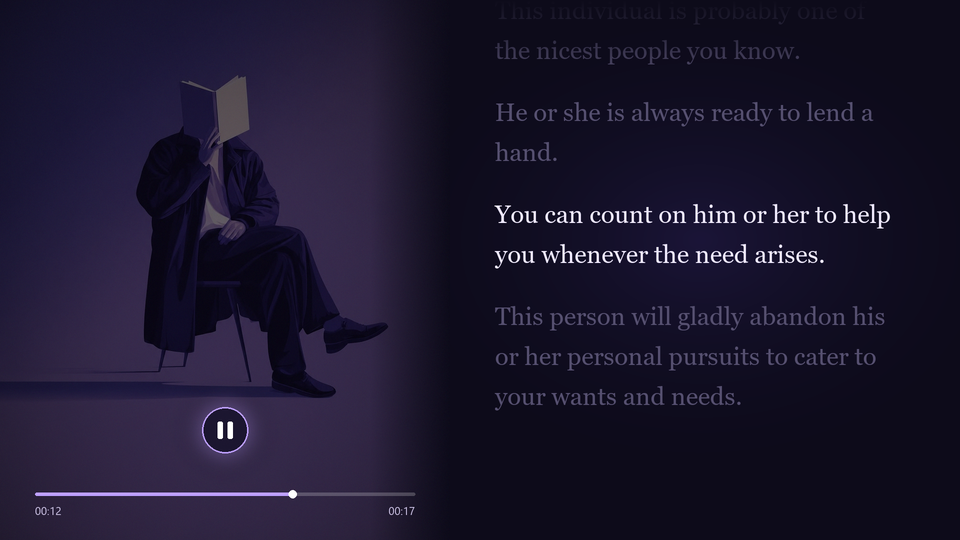
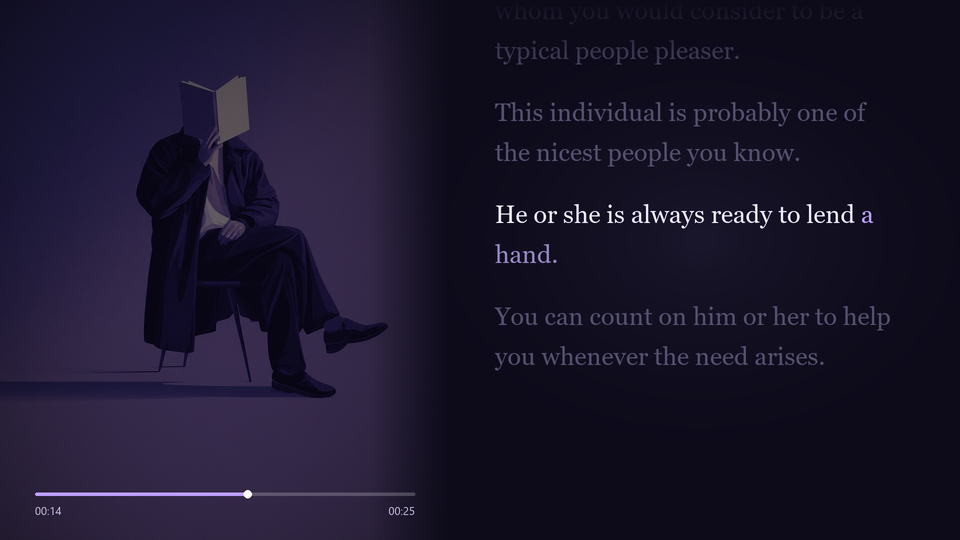
Video: remove play/pause button from Split Reader style, refresh preview

diff --git a/video/styles/split_reader.py b/video/styles/split_reader.py
@@ -1,8 +1,9 @@
 """Style "Split Reader": darkened illustration on the left, sentence-by-sentence text on the right."""
+import colorsys
 import os
 
 import numpy as np
-from PIL import Image, ImageDraw, ImageFilter, ImageFont
+from PIL import Image, ImageDraw, ImageFont
 
 from ..core import ASSETS, H, W, Style, register
 
@@ -10,16 +11,36 @@ F = r"C:\Windows\Fonts"
 SERIF, SANS = F + r"\georgia.ttf", F + r"\segoeui.ttf"
 
 PANEL_W = 900                                   # left illustration panel
-# Theme palettes. hue = target hue of the artwork in degrees (the bundled art is purple, ~255).
-# bg = panel background, accent = word being spoken / progress, spoken/upcoming = current sentence, dim = other sentences.
-THEMES = {
-    "purple": dict(label="Purple", hue=255, bg=(13, 11, 26), accent=(190, 160, 255), spoken=(240, 234, 255), upcoming=(150, 136, 196), dim=(86, 80, 112)),
-    "blue":   dict(label="Blue",   hue=215, bg=(10, 16, 30), accent=(140, 190, 255), spoken=(232, 241, 255), upcoming=(124, 152, 200), dim=(72, 88, 116)),
-    "teal":   dict(label="Teal",   hue=175, bg=(8, 22, 24),  accent=(110, 226, 210), spoken=(228, 252, 248), upcoming=(112, 176, 170), dim=(66, 100, 100)),
-    "green":  dict(label="Green",  hue=135, bg=(10, 22, 14), accent=(150, 230, 150), spoken=(236, 252, 236), upcoming=(128, 176, 128), dim=(72, 100, 76)),
-    "amber":  dict(label="Amber",  hue=35,  bg=(28, 19, 9),  accent=(255, 196, 110), spoken=(255, 244, 228), upcoming=(200, 162, 118), dim=(112, 92, 70)),
-    "rose":   dict(label="Rose",   hue=335, bg=(28, 11, 20), accent=(255, 150, 190), spoken=(255, 236, 244), upcoming=(200, 128, 156), dim=(112, 76, 92)),
-}
+# Theme palettes: one per Tailwind color (accent = its 300 shade). Everything else is derived from the accent:
+# bg = panel background, spoken/upcoming = current sentence, dim = other sentences, hue/sat = recoloring of the artwork.
+# The bundled art is purple (hue ~255). "sat" scales the art's saturation (neutral colors are nearly gray).
+_TAILWIND = [   # id, label, accent RGB, art saturation
+    ("red", "Red", (252, 165, 165), 1), ("orange", "Orange", (253, 186, 116), 1), ("amber", "Amber", (252, 211, 77), 1),
+    ("yellow", "Yellow", (253, 224, 71), 1), ("lime", "Lime", (190, 242, 100), 1), ("green", "Green", (134, 239, 172), 1),
+    ("emerald", "Emerald", (110, 231, 183), 1), ("teal", "Teal", (94, 234, 212), 1), ("cyan", "Cyan", (103, 232, 249), 1),
+    ("sky", "Sky", (125, 211, 252), 1), ("blue", "Blue", (147, 197, 253), 1), ("indigo", "Indigo", (165, 180, 252), 1),
+    ("violet", "Violet", (196, 181, 253), 1), ("purple", "Purple", (216, 180, 254), 1),
+    ("fuchsia", "Fuchsia", (240, 171, 252), 1), ("pink", "Pink", (249, 168, 212), 1), ("rose", "Rose", (253, 164, 175), 1),
+    ("slate", "Slate", (203, 213, 225), 0.30), ("gray", "Gray", (209, 213, 219), 0.18), ("zinc", "Zinc", (212, 212, 216), 0.12),
+    ("neutral", "Neutral", (212, 212, 212), 0.0), ("stone", "Stone", (214, 211, 209), 0.14),
+]
+
+
+def _rgb(h, l, s):
+    return tuple(round(c * 255) for c in colorsys.hls_to_rgb(h, l, s))
+
+
+def _make_theme(label, accent, sat):
+    h, _, s = colorsys.rgb_to_hls(*(c / 255 for c in accent))
+    return dict(label=label, hue=h * 360, sat=sat, accent=accent,
+                bg=_rgb(h, 0.075, min(s, 0.5)), spoken=_rgb(h, 0.95, min(s, 1) * 0.9),
+                upcoming=_rgb(h, 0.62, min(s, 1) * 0.30), dim=_rgb(h, 0.36, min(s, 1) * 0.16))
+
+
+THEMES = {i: _make_theme(lb, ac, st) for i, lb, ac, st in _TAILWIND}
+# The original hand-tuned purple stays the default look (the artwork's own hue, so it is never recolored).
+THEMES["purple"] = dict(label="Purple", hue=255, sat=1, bg=(13, 11, 26), accent=(190, 160, 255), spoken=(240, 234, 255),
+                        upcoming=(150, 136, 196), dim=(86, 80, 112))
 DEFAULT_THEME = "purple"
 TX0, TX1 = PANEL_W + 90, W - 110
 FONT_SIZE, LINE_H, PARA_GAP = 50, 80, 44
@@ -61,11 +82,13 @@ class SplitReader(Style):
     # ---- static background
     def _build_base(self, image_path):
         im = Image.open(image_path).convert("RGB")
-        if image_path == DEFAULT_IMAGE and self.t["hue"] != THEMES[DEFAULT_THEME]["hue"]:
-            # recolor the bundled purple art to the theme (rotate the hue; uploaded images are left as they are)
+        if image_path == DEFAULT_IMAGE and self.t is not THEMES[DEFAULT_THEME]:
+            # recolor the bundled purple art to the theme: rotate the hue, scale the saturation
+            # (uploaded images are left as they are)
             shift = round((self.t["hue"] - THEMES[DEFAULT_THEME]["hue"]) / 360 * 256) % 256
             hsv = np.asarray(im.convert("HSV")).copy()
             hsv[..., 0] = (hsv[..., 0].astype(np.int16) + shift) % 256
+            hsv[..., 1] = (hsv[..., 1] * self.t["sat"]).astype(np.uint8)
             im = Image.fromarray(hsv, "HSV").convert("RGB")
         r = PANEL_W / im.width
         im = im.resize((PANEL_W, max(H, round(im.height * r))), Image.LANCZOS)
@@ -138,17 +161,6 @@ class SplitReader(Style):
         d.text((x0, y + 18), _fmt(t), font=self.small, fill=(210, 200, 235, 255))
         d.text((x1, y + 18), _fmt(self.duration), font=self.small, fill=(210, 200, 235, 255), anchor="ra")
 
-    def _pause(self, layer, t):
-        cx, cy = PANEL_W // 2, H - 220
-        pulse = 0.5 + 0.5 * np.sin(t * 2.2)
-        glow = Image.new("RGBA", (W, H), (0, 0, 0, 0))
-        ImageDraw.Draw(glow).ellipse([cx - 70, cy - 70, cx + 70, cy + 70], fill=self.t["accent"] + (int(40 + 30 * pulse),))
-        layer.alpha_composite(glow.filter(ImageFilter.GaussianBlur(22)))
-        d = ImageDraw.Draw(layer)
-        d.ellipse([cx - 46, cy - 46, cx + 46, cy + 46], fill=(20, 16, 40, 200), outline=self.t["accent"] + (255,), width=3)
-        for ox in (-10, 10):
-            d.rounded_rectangle([cx + ox - 5, cy - 17, cx + ox + 5, cy + 17], radius=3, fill=(255, 255, 255, 255))
-
     # ---- one frame
     def frame(self, t):
         k, scroll = self._scroll(t)
@@ -172,6 +184,5 @@ class SplitReader(Style):
         a = np.asarray(layer).copy()
         a[..., 3] = (a[..., 3] * self.mask).astype(np.uint8)       # fade the top/bottom of the text column
         layer = Image.fromarray(a)
-        self._pause(layer, t)
         self._player(ImageDraw.Draw(layer), t)
         return Image.alpha_composite(self.base, layer)
